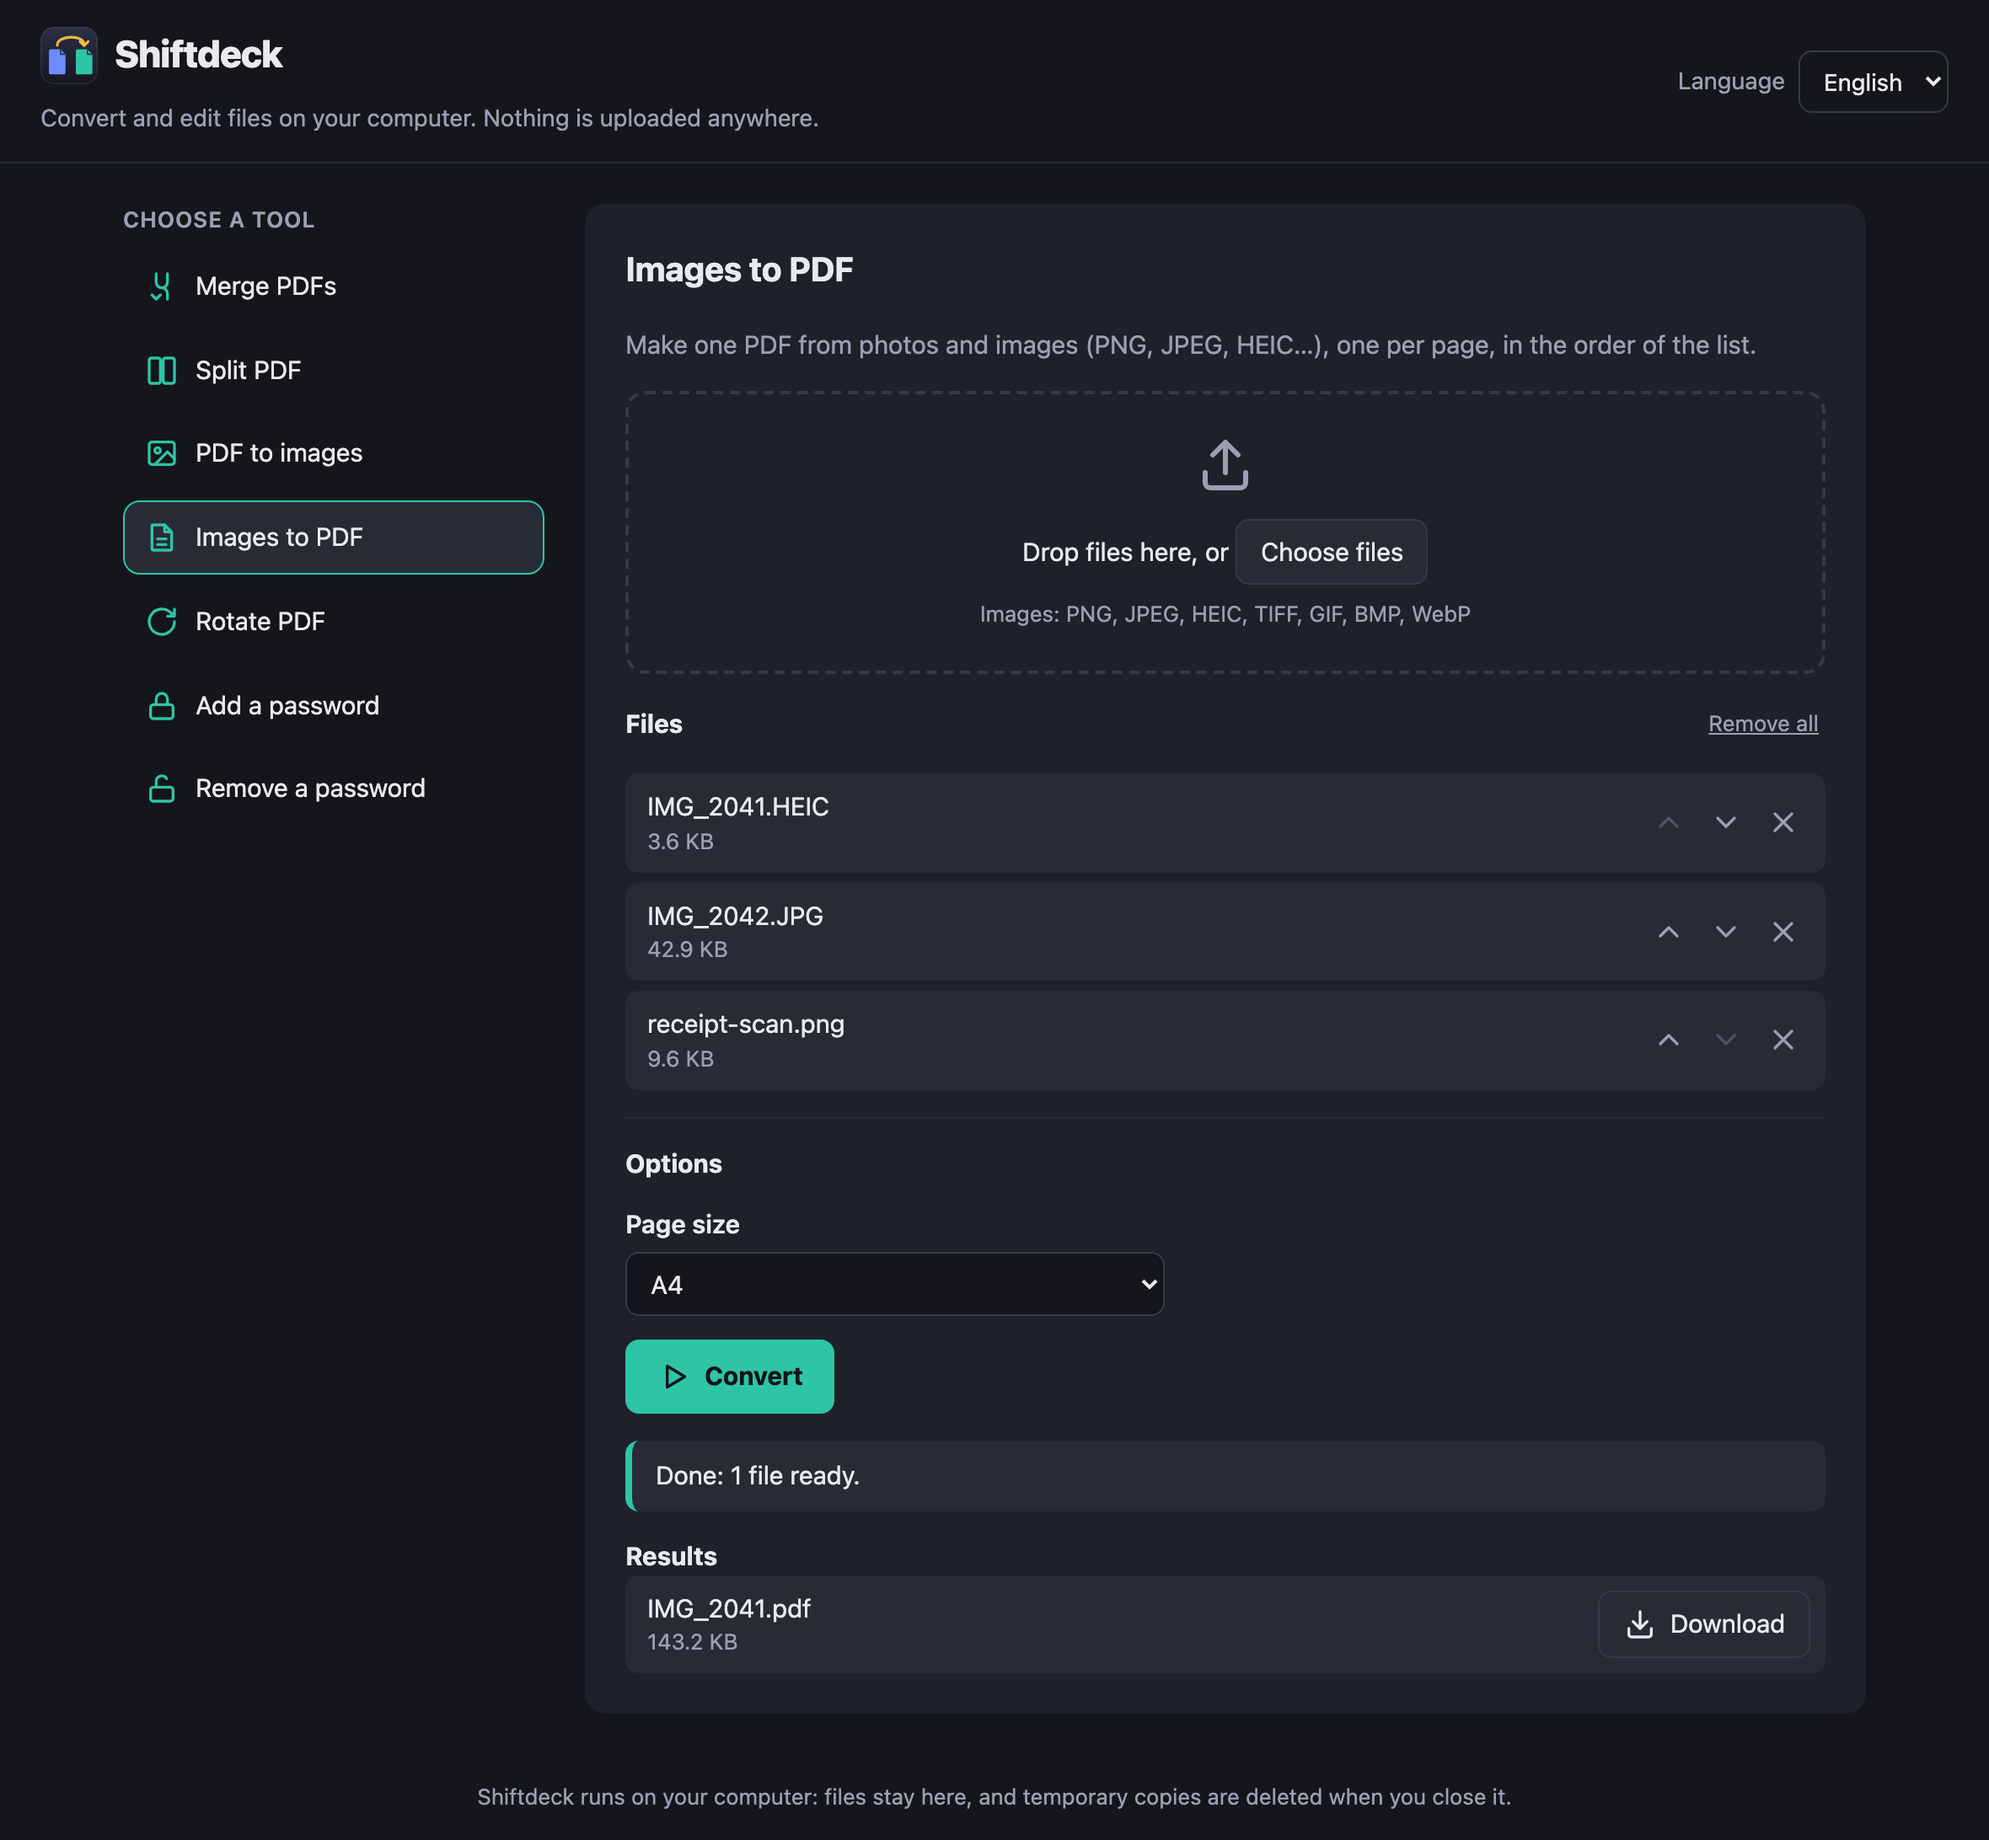
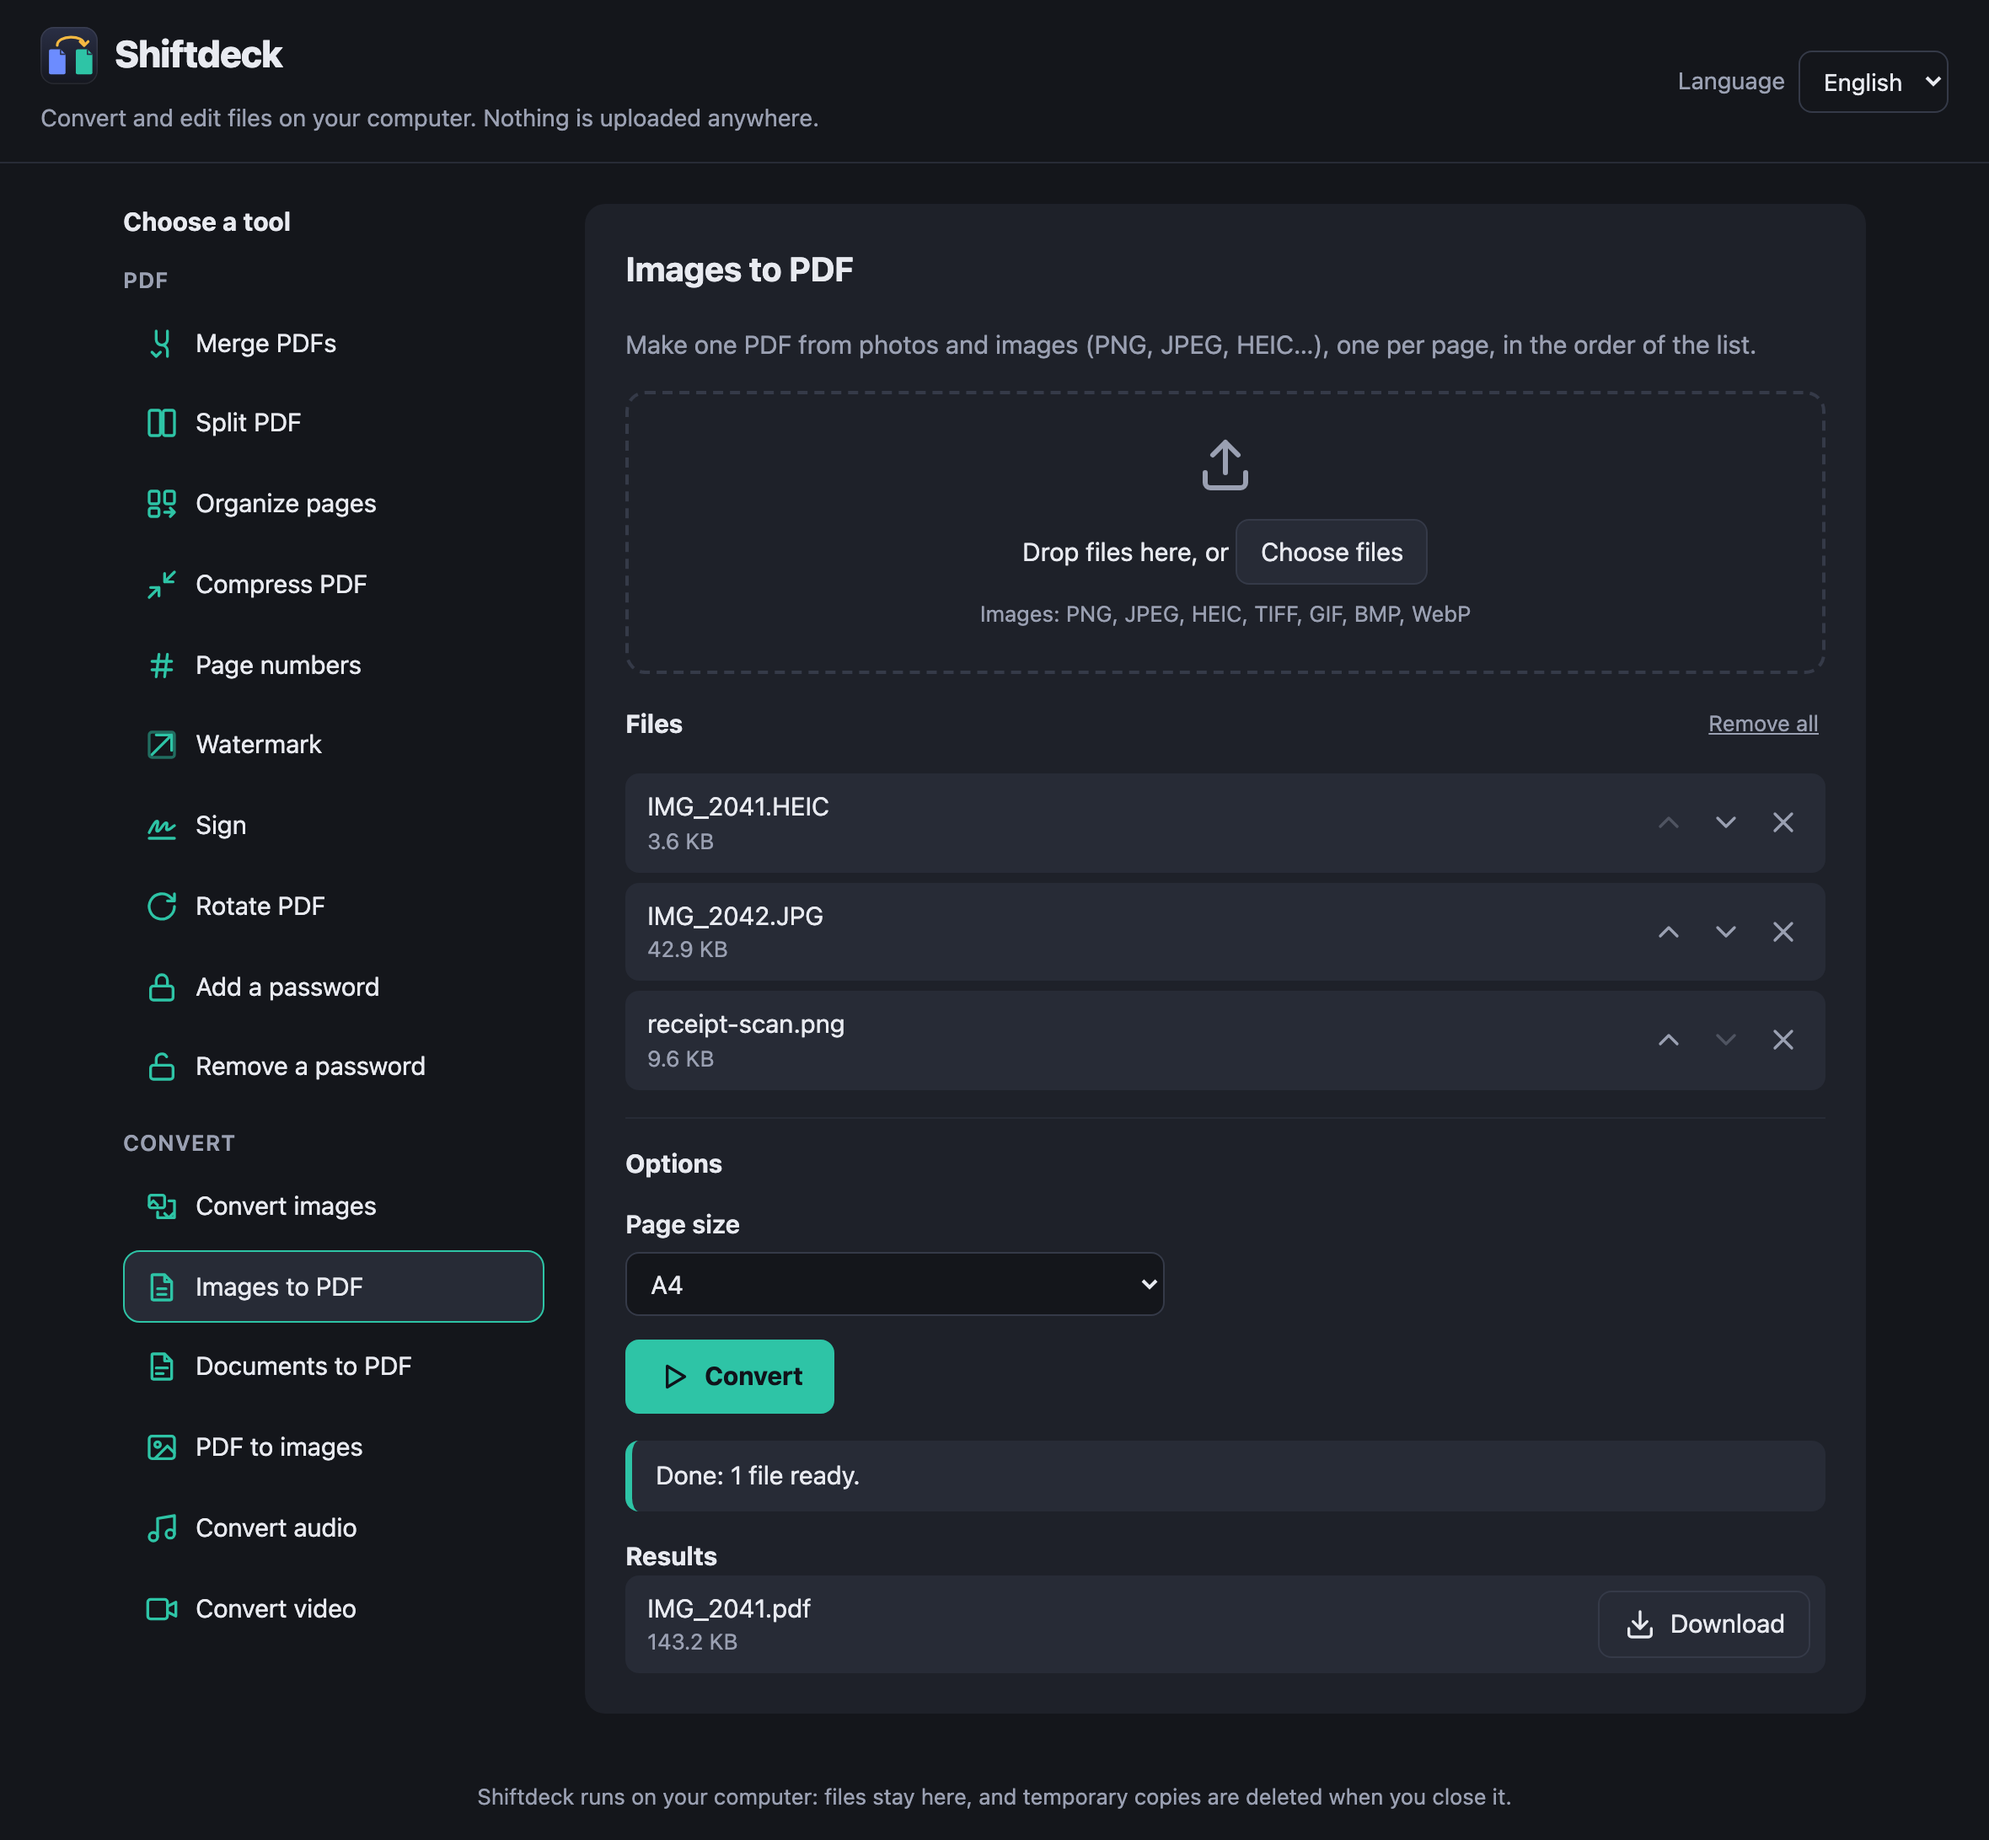
feat(ui): group the tools into PDF and Convert
With sixteen tools the flat list had become hard to scan, and new tools
had landed in odd places (audio and video between Split and Organize).
The tools now sit in two labelled groups, PDF and Convert, each in a
sensible order; they are still one set of radio buttons, so the arrow
keys go through all of them. The README screenshot shows the new list.

diff --git a/public/index.html b/public/index.html
@@ -57,25 +57,31 @@
   <p id="demoNotice" class="notice info demo-notice" hidden><span data-i18n="demoNotice"></span> <a href="https://github.com/azammarchi/shiftdeck#quick-start" data-i18n="demoInstallLink"></a></p>
 
   <main>
-    <fieldset class="tools">
-      <legend data-i18n="toolsHeading"></legend>
-      <label class="tool"><input type="radio" name="tool" value="merge" checked><svg class="icon" aria-hidden="true"><use href="#i-merge"/></svg><span data-i18n="tool_merge"></span></label>
-      <label class="tool"><input type="radio" name="tool" value="split"><svg class="icon" aria-hidden="true"><use href="#i-split"/></svg><span data-i18n="tool_split"></span></label>
-      <label class="tool"><input type="radio" name="tool" value="convert-audio"><svg class="icon" aria-hidden="true"><use href="#i-audio"/></svg><span data-i18n="tool_convert-audio"></span></label>
-      <label class="tool"><input type="radio" name="tool" value="convert-video"><svg class="icon" aria-hidden="true"><use href="#i-video"/></svg><span data-i18n="tool_convert-video"></span></label>
-      <label class="tool"><input type="radio" name="tool" value="organize"><svg class="icon" aria-hidden="true"><use href="#i-organize"/></svg><span data-i18n="tool_organize"></span></label>
-      <label class="tool"><input type="radio" name="tool" value="pdf-to-images"><svg class="icon" aria-hidden="true"><use href="#i-image"/></svg><span data-i18n="tool_pdf-to-images"></span></label>
-      <label class="tool"><input type="radio" name="tool" value="images-to-pdf"><svg class="icon" aria-hidden="true"><use href="#i-file"/></svg><span data-i18n="tool_images-to-pdf"></span></label>
-      <label class="tool"><input type="radio" name="tool" value="documents-to-pdf"><svg class="icon" aria-hidden="true"><use href="#i-document"/></svg><span data-i18n="tool_documents-to-pdf"></span></label>
-      <label class="tool"><input type="radio" name="tool" value="convert-images"><svg class="icon" aria-hidden="true"><use href="#i-convert"/></svg><span data-i18n="tool_convert-images"></span></label>
-      <label class="tool"><input type="radio" name="tool" value="page-numbers"><svg class="icon" aria-hidden="true"><use href="#i-hash"/></svg><span data-i18n="tool_page-numbers"></span></label>
-      <label class="tool"><input type="radio" name="tool" value="sign"><svg class="icon" aria-hidden="true"><use href="#i-sign"/></svg><span data-i18n="tool_sign"></span></label>
-      <label class="tool"><input type="radio" name="tool" value="watermark"><svg class="icon" aria-hidden="true"><use href="#i-stamp"/></svg><span data-i18n="tool_watermark"></span></label>
-      <label class="tool"><input type="radio" name="tool" value="compress"><svg class="icon" aria-hidden="true"><use href="#i-compress"/></svg><span data-i18n="tool_compress"></span></label>
-      <label class="tool"><input type="radio" name="tool" value="rotate"><svg class="icon" aria-hidden="true"><use href="#i-rotate"/></svg><span data-i18n="tool_rotate"></span></label>
-      <label class="tool"><input type="radio" name="tool" value="protect"><svg class="icon" aria-hidden="true"><use href="#i-lock"/></svg><span data-i18n="tool_protect"></span></label>
-      <label class="tool"><input type="radio" name="tool" value="unlock"><svg class="icon" aria-hidden="true"><use href="#i-unlock"/></svg><span data-i18n="tool_unlock"></span></label>
-    </fieldset>
+    <div class="tools">
+      <h2 class="tools-heading" id="toolsHeading" data-i18n="toolsHeading"></h2>
+      <fieldset class="tool-group">
+        <legend data-i18n="groupPdf"></legend>
+        <label class="tool"><input type="radio" name="tool" value="merge" checked><svg class="icon" aria-hidden="true"><use href="#i-merge"/></svg><span data-i18n="tool_merge"></span></label>
+        <label class="tool"><input type="radio" name="tool" value="split"><svg class="icon" aria-hidden="true"><use href="#i-split"/></svg><span data-i18n="tool_split"></span></label>
+        <label class="tool"><input type="radio" name="tool" value="organize"><svg class="icon" aria-hidden="true"><use href="#i-organize"/></svg><span data-i18n="tool_organize"></span></label>
+        <label class="tool"><input type="radio" name="tool" value="compress"><svg class="icon" aria-hidden="true"><use href="#i-compress"/></svg><span data-i18n="tool_compress"></span></label>
+        <label class="tool"><input type="radio" name="tool" value="page-numbers"><svg class="icon" aria-hidden="true"><use href="#i-hash"/></svg><span data-i18n="tool_page-numbers"></span></label>
+        <label class="tool"><input type="radio" name="tool" value="watermark"><svg class="icon" aria-hidden="true"><use href="#i-stamp"/></svg><span data-i18n="tool_watermark"></span></label>
+        <label class="tool"><input type="radio" name="tool" value="sign"><svg class="icon" aria-hidden="true"><use href="#i-sign"/></svg><span data-i18n="tool_sign"></span></label>
+        <label class="tool"><input type="radio" name="tool" value="rotate"><svg class="icon" aria-hidden="true"><use href="#i-rotate"/></svg><span data-i18n="tool_rotate"></span></label>
+        <label class="tool"><input type="radio" name="tool" value="protect"><svg class="icon" aria-hidden="true"><use href="#i-lock"/></svg><span data-i18n="tool_protect"></span></label>
+        <label class="tool"><input type="radio" name="tool" value="unlock"><svg class="icon" aria-hidden="true"><use href="#i-unlock"/></svg><span data-i18n="tool_unlock"></span></label>
+      </fieldset>
+      <fieldset class="tool-group">
+        <legend data-i18n="groupConvert"></legend>
+        <label class="tool"><input type="radio" name="tool" value="convert-images"><svg class="icon" aria-hidden="true"><use href="#i-convert"/></svg><span data-i18n="tool_convert-images"></span></label>
+        <label class="tool"><input type="radio" name="tool" value="images-to-pdf"><svg class="icon" aria-hidden="true"><use href="#i-file"/></svg><span data-i18n="tool_images-to-pdf"></span></label>
+        <label class="tool"><input type="radio" name="tool" value="documents-to-pdf"><svg class="icon" aria-hidden="true"><use href="#i-document"/></svg><span data-i18n="tool_documents-to-pdf"></span></label>
+        <label class="tool"><input type="radio" name="tool" value="pdf-to-images"><svg class="icon" aria-hidden="true"><use href="#i-image"/></svg><span data-i18n="tool_pdf-to-images"></span></label>
+        <label class="tool"><input type="radio" name="tool" value="convert-audio"><svg class="icon" aria-hidden="true"><use href="#i-audio"/></svg><span data-i18n="tool_convert-audio"></span></label>
+        <label class="tool"><input type="radio" name="tool" value="convert-video"><svg class="icon" aria-hidden="true"><use href="#i-video"/></svg><span data-i18n="tool_convert-video"></span></label>
+      </fieldset>
+    </div>
 
     <section class="workspace" aria-labelledby="toolTitle">
       <h2 id="toolTitle"></h2>

diff --git a/public/i18n.js b/public/i18n.js
@@ -19,6 +19,8 @@ const LANGUAGES = {
       formatsUnavailableBrowser: 'This browser can\'t write: {formats}. The app on your computer can.',
       language: 'Language',
       toolsHeading: 'Choose a tool',
+      groupPdf: 'PDF',
+      groupConvert: 'Convert',
       tool_merge: 'Merge PDFs',
       tool_merge_hint: 'Combine several PDFs into one, in the order of the list.',
       tool_split: 'Split PDF',
@@ -205,6 +207,8 @@ const LANGUAGES = {
       formatsUnavailableBrowser: 'Questo browser non sa scrivere: {formats}. L\'app sul tuo computer sì.',
       language: 'Lingua',
       toolsHeading: 'Scegli uno strumento',
+      groupPdf: 'PDF',
+      groupConvert: 'Converti',
       tool_merge: 'Unisci PDF',
       tool_merge_hint: "Unisci più PDF in uno solo, nell'ordine della lista.",
       tool_split: 'Dividi PDF',

diff --git a/public/style.css b/public/style.css
@@ -68,8 +68,10 @@ main {
 
 /* Tool picker: real radio buttons, so arrows, Tab and screen readers work
    as usual; the label around each one is the visible card. */
-.tools { margin: 0; padding: 0; border: 0; display: flex; flex-direction: column; gap: 6px; }
-.tools legend { padding: 0 0 8px; color: var(--muted); font-size: 13px; font-weight: 600; text-transform: uppercase; letter-spacing: 0.5px; }
+.tools { display: flex; flex-direction: column; gap: 14px; }
+.tools-heading { margin: 0; font-size: 15px; }
+.tool-group { margin: 0; padding: 0; border: 0; display: flex; flex-direction: column; gap: 4px; }
+.tool-group legend { padding: 0 0 6px; color: var(--muted); font-size: 13px; font-weight: 600; text-transform: uppercase; letter-spacing: 0.5px; }
 .tool {
   position: relative;
   display: flex;

diff --git a/tests/i18n.spec.js b/tests/i18n.spec.js
@@ -23,7 +23,7 @@ test('switching to Italian translates the page and is remembered', async ({ page
 
   await page.reload();
   await expect(page.locator('#runLabel')).toHaveText('Converti');
-  await expect(page.locator('legend')).toHaveText('Scegli uno strumento');
+  await expect(page.locator('#toolsHeading')).toHaveText('Scegli uno strumento');
 });
 
 test('counts use the right plural in each language', async ({ page }) => {
